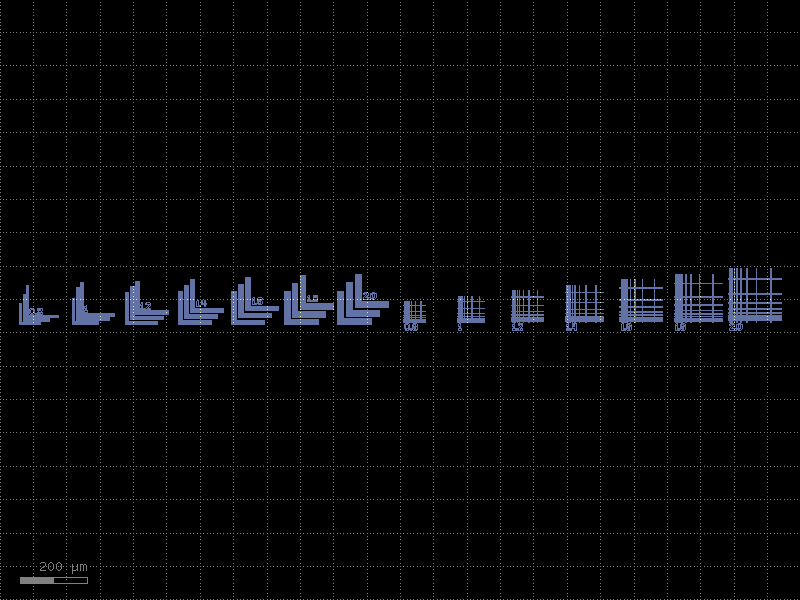
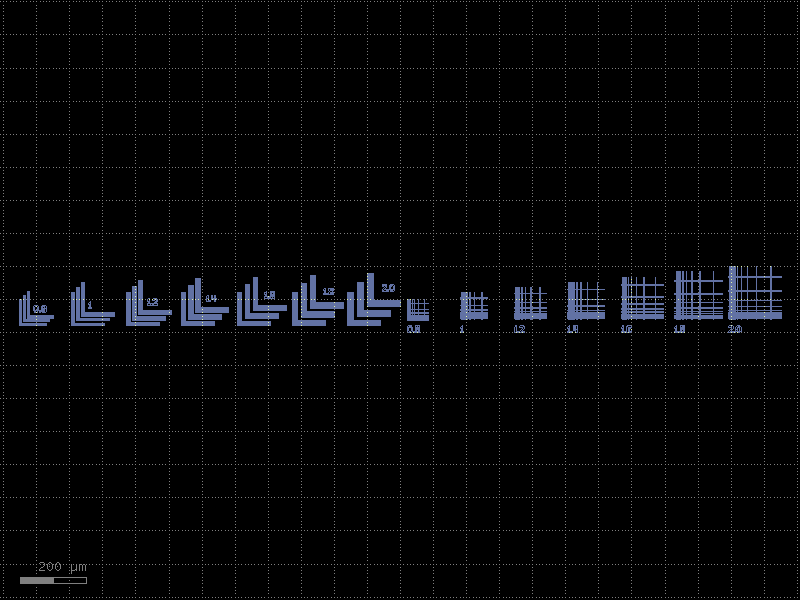
add smarter bounds checking for sample placement so it doesn't just error out when placing multiple components; improvements to resolution test structures

diff --git a/src/qnngds/sample.py b/src/qnngds/sample.py
@@ -9,6 +9,7 @@ import gdsfactory as gf
 from gdsfactory.typings import ComponentSpecOrComponent, LayerSpec
 
 from collections.abc import Sequence
+from collections import deque
 
 from itertools import product
 
@@ -155,6 +156,7 @@ class Sample(object):
                 )
                 if intersection.get_region(layer=(1, 0)).is_empty():
                     self.open_cells.add((row, col))
+        self.bounds = self.open_cells.copy()
 
     def visualize_open_cells(self, blocking: bool = True) -> gf.Component:
         """Visualize open cells
@@ -240,6 +242,12 @@ class Sample(object):
         cells_to_occupy = set(product(row_span, col_span))
         for row in row_span:
             for col in col_span:
+                if (row, col) not in self.bounds:
+                    error_msg = (
+                        f"cell {(row, col)=} is outside of sample when attempting "
+                    )
+                    error_msg += f"to place {component.name=}"
+                    raise ValueError(error_msg)
                 if (row, col) not in self.open_cells:
                     error_msg = f"cell {(row, col)=} is occupied when attempting "
                     error_msg += f"to place {component.name=}"
@@ -297,35 +305,33 @@ class Sample(object):
         ax_inner = list(row_span)
         if not column_major:
             ax_outer, ax_inner = ax_inner, ax_outer
-        component_iter = iter(components)
+        component_queue = deque(components)
         for iout, outer in enumerate(ax_outer):
             for iin, inner in enumerate(ax_inner):
+                if len(component_queue) == 0:
+                    break
                 row = inner
                 col = outer
                 if not column_major:
                     row, col = col, row
                 if (row, col) in self.open_cells:
-                    try:
-                        # generate a bounding box
-                        component = next(component_iter)
-                        rows = int(np.ceil(component.ysize / self.cell_size))
-                        cols = int(np.ceil(component.xsize / self.cell_size))
-                        self.place_on_sample(
-                            component,
-                            cell_coordinate_bbox=(
-                                (row, col),
-                                (row + rows - 1, col + cols - 1),
-                            ),
-                            ignore_collisions=ignore_collisions,
-                        )
-                    except StopIteration:
-                        break
-        if next(component_iter, None) is not None:
-            r = 1
-            while next(component_iter, None) is not None and r < 50:
-                r += 1
+                    # generate a bounding box
+                    component = component_queue.popleft()
+                    rows = int(np.ceil(component.ysize / self.cell_size))
+                    cols = int(np.ceil(component.xsize / self.cell_size))
+                    bbox = ((row, col), (row + rows - 1, col + cols - 1))
+                    if bbox[0] not in self.bounds or bbox[1] not in self.bounds:
+                        # make sure extents of proposed bbox are in bounds
+                        component_queue.appendleft(component)
+                        continue
+                    self.place_on_sample(
+                        component,
+                        cell_coordinate_bbox=bbox,
+                        ignore_collisions=ignore_collisions,
+                    )
+        if len(component_queue) > 0:
             error_msg = "insufficient area provided, available space exhausted and "
-            error_msg += f"still have {'>' if r >= 50 else ''}{r} remaining components."
+            error_msg += f"still have {len(component_queue)} remaining components."
             raise ValueError(error_msg)
 
     def write_cell_corners(self, width: float, layer: LayerSpec) -> None:

diff --git a/src/qnngds/test_structures.py b/src/qnngds/test_structures.py
@@ -235,7 +235,8 @@ def _create_waffle(
 
     text = WAFFLE << gf.components.texts.text(str(res), size=20, layer=layer)
     start = (text.xmin, text.ymax)
-    text.move(start, (2 * res, -2 * res))
+    dy = -min(20, 20 * res)
+    text.move(start, (0, dy))
 
     WAFFLEu = gf.Component()
     WAFFLEu << qg.utilities.union(WAFFLE)
@@ -257,25 +258,25 @@ def _create_3L(res: Union[float, int] = 1, layer: LayerSpec = (1, 0)) -> gf.Comp
     """
 
     LLL = gf.Component()
-    grid_spacing = (13 * res, 13 * res)
+    grid_spacing = (15 * res, 15 * res)
 
-    space = [0.8, 1, 1.2]
-    for i, percent in enumerate(space):
+    deviation = [0.8, 1, 1.2]
+    for i, percent in enumerate(deviation):
         bars = gf.Component()
         w = percent * res
         spacing = 2 * res
-        bar = gf.components.shapes.rectangle(size=(min(100 * w, 100), w), layer=layer)
+        bar = gf.components.shapes.rectangle(size=(min(100 * res, 100), w), layer=layer)
         h_bars = bars.add_ref(bar, columns=1, rows=5, column_pitch=0, row_pitch=spacing)
         v_bars = bars.add_ref(bar, columns=1, rows=5, column_pitch=0, row_pitch=spacing)
         h_bars.rotate(90)
-        h_bars.move((LLL.xmin - h_bars.xmin, LLL.ymin - h_bars.ymin))
-        v_bars.move((LLL.xmin - v_bars.xmin, LLL.ymin - v_bars.ymin))
+        h_bars.move((h_bars.xmin, h_bars.ymin), (0, 0))
+        v_bars.move((v_bars.xmin, v_bars.ymin), (0, 0))
         lll = LLL << bars
-        lll.move([i * space for space in grid_spacing])
+        lll.move([i * offset for offset in grid_spacing])
 
     text = LLL << gf.components.texts.text(str(res), size=20, layer=layer)
     start = (text.xmin, text.ymin)
-    text.move(start, [(i + 1) * space for space in grid_spacing])
+    text.move(start, [(len(deviation) + 0.5) * offset for offset in grid_spacing])
     LLLu = gf.Component()
     LLLu << qg.utilities.union(LLL)
     LLLu.flatten()
